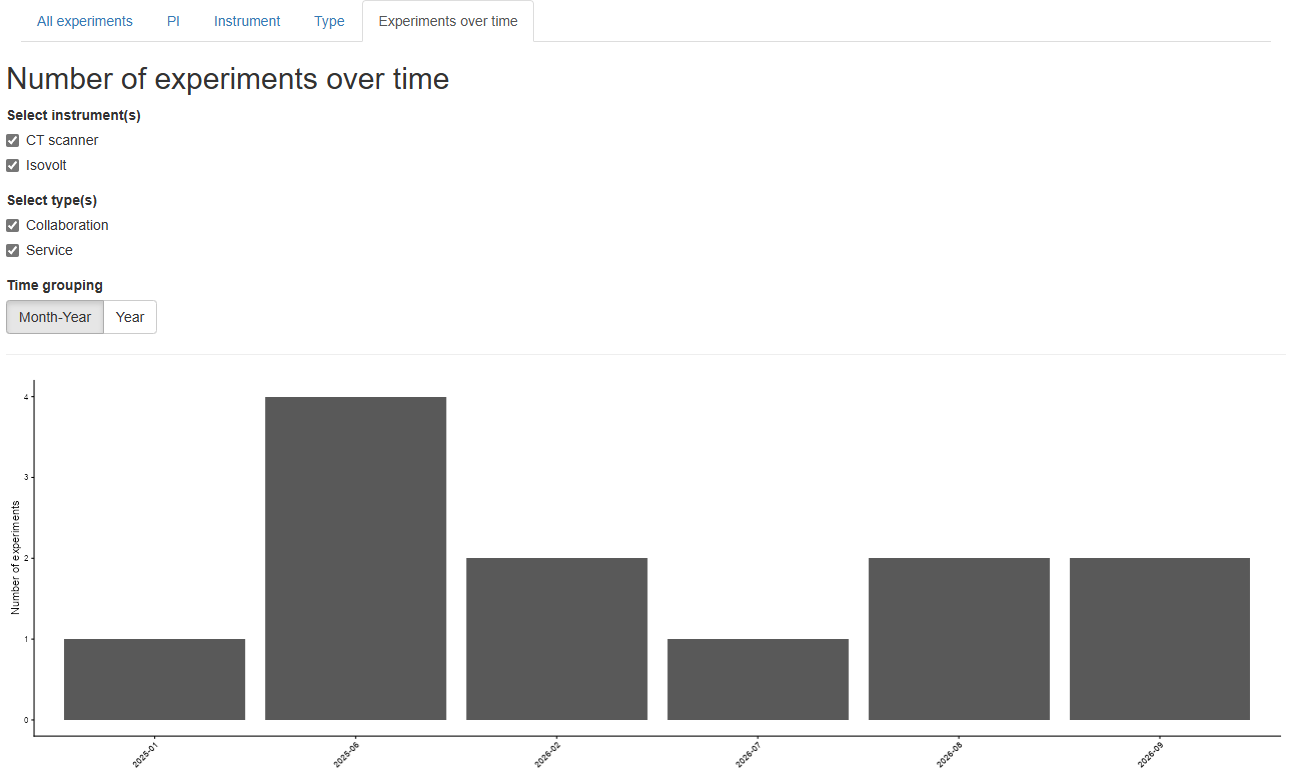
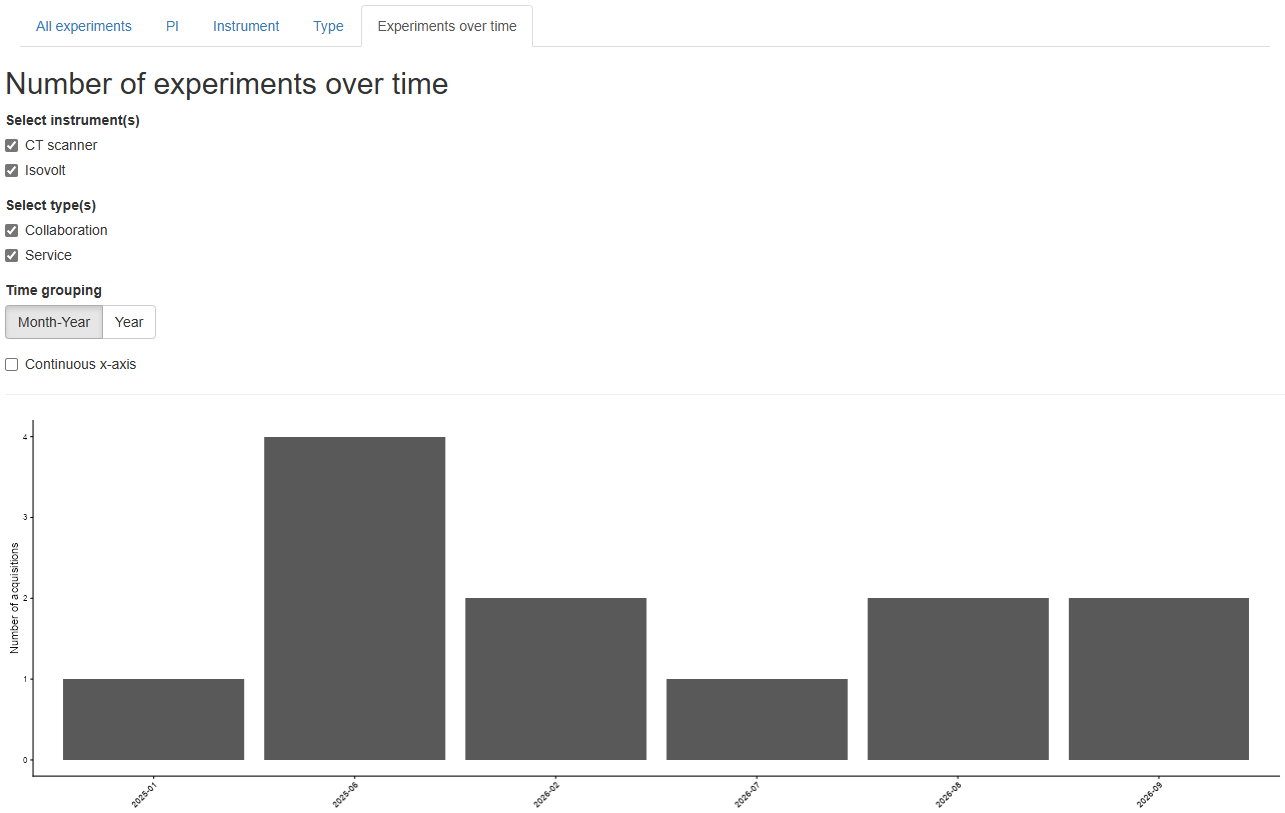
- Added: continuous x-axis on plots - Corrected: services are now counted with both "yes" (radio button in new template) and "on" (checkbox in old template)

diff --git a/README.md b/README.md
@@ -193,6 +193,13 @@ Grouping per year is cleaner with lots of entries.
 >    <i>Tab "Experiments over time" with JSON file uploaded and grouping per year.</i>
 ></p>
 
+Tick the box `Continuous x-axis` if you want to show a continuous timeline on the x-axis, i.e. all months/years from the first to the last experiment including empty months/years. This is particularly useful with the `Month-Year` option to show the undistorted evolution over time. 
+
+><p align="center" width="100%">
+>    <img src="screenshots/app_tab-time_month-cont.png"><br>
+>    <i>Tab "Experiments over time" with JSON file uploaded and grouping per month with continuous x-axis.</i>
+></p>
+
 The graph currently displayed (i.e. month or year) can be downloaded to PDF or PNG files by clicking on the buttons at the bottom of the tab.
 
 ><p align="center" width="100%">
